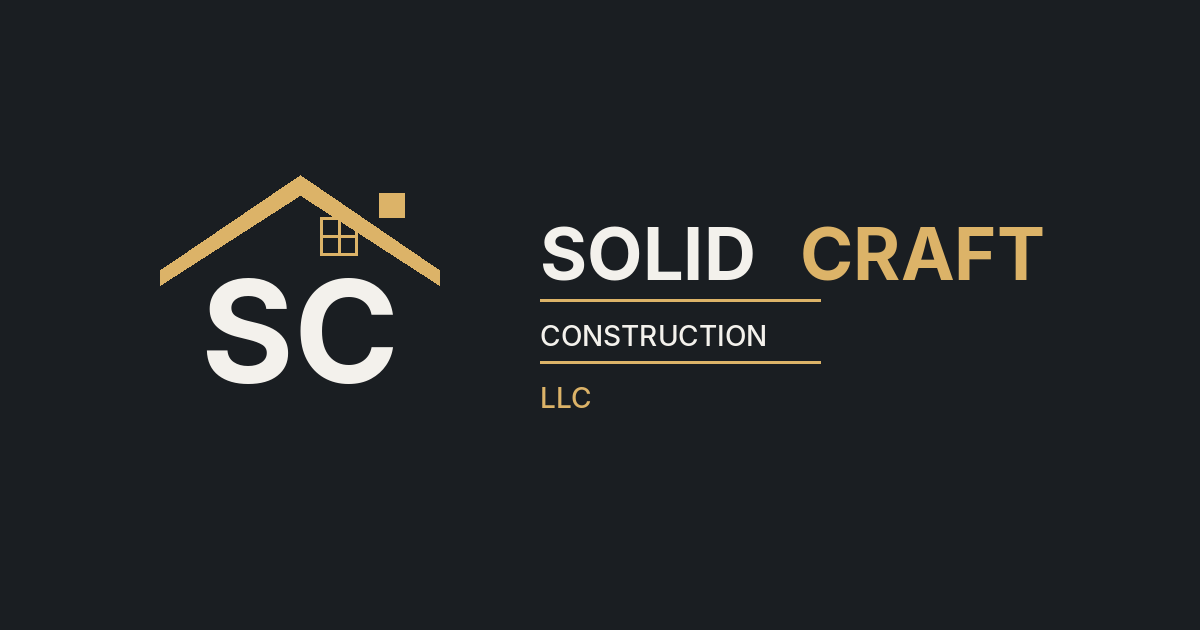
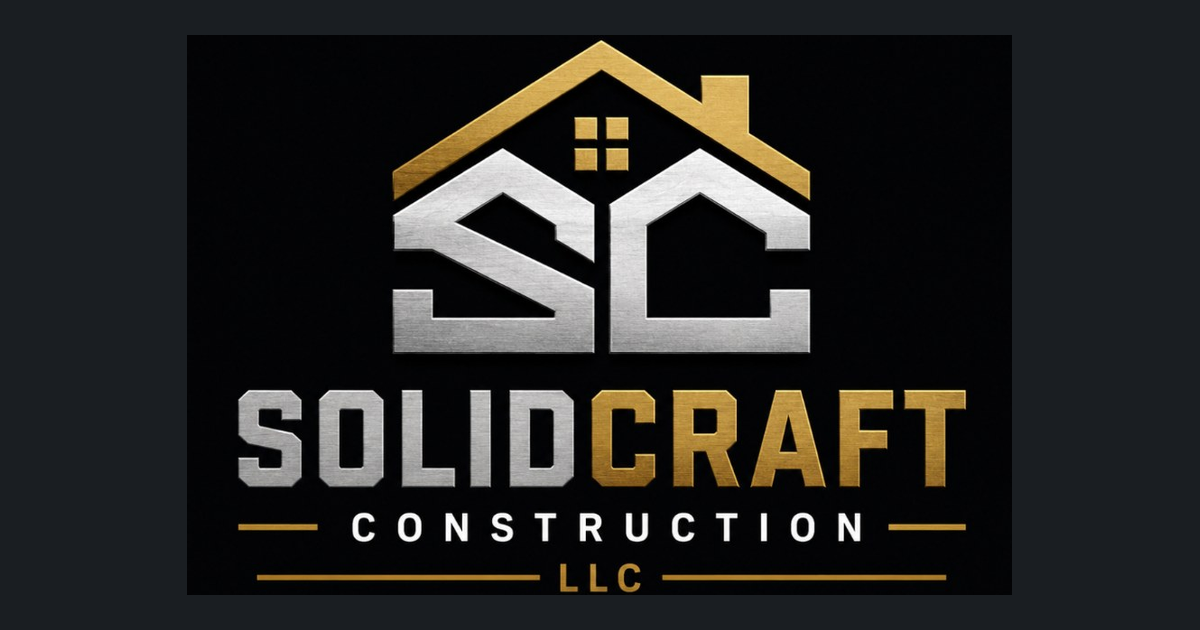
feat: use printed card crop as hero and chrome mark
Voice copy stays locked. Hero is the card lockup only — no job photos.

diff --git a/components/home-view.tsx b/components/home-view.tsx
@@ -1,18 +1,14 @@
-import { BrandMark } from "@/components/brand-mark"
 import { CallPair } from "@/components/call-pair"
+import { CardLockup } from "@/components/card-lockup"
 import { ServiceList } from "@/components/service-list"
-import { Wordmark } from "@/components/wordmark"
 import { site } from "@/lib/site"
 
 export function HomeView() {
   return (
     <div className="bg-ground">
       <section className="border-b border-gold/50">
-        <div className="mx-auto flex max-w-5xl flex-col items-center px-4 py-12 text-center sm:py-16">
-          <BrandMark priority className="h-28 w-auto sm:h-36" />
-          <div className="mt-5">
-            <Wordmark />
-          </div>
+        <div className="mx-auto flex max-w-5xl flex-col items-center px-4 py-10 text-center sm:py-14">
+          <CardLockup priority className="h-auto w-full max-w-md ring-1 ring-gold/60" />
           <h1 className="mt-10 max-w-xl text-4xl text-ink sm:text-5xl md:text-[3.4rem]">
             {site.heroTitle}
           </h1>

diff --git a/components/card-lockup.tsx b/components/card-lockup.tsx
@@ -2,8 +2,8 @@ import Image from "next/image"
 
 import { marks, site } from "@/lib/site"
 
-export function BrandMark({
-  className = "h-14 w-auto",
+export function CardLockup({
+  className = "h-auto w-full max-w-md",
   priority = false,
 }: {
   className?: string
@@ -11,11 +11,11 @@ export function BrandMark({
 }) {
   return (
     <Image
-      src={marks.logoMark}
+      src={marks.cardLockup}
       alt={site.legalName}
-      width={834}
-      height={340}
-      className={`object-contain ${className}`}
+      width={914}
+      height={620}
+      className={`bg-card object-contain ${className}`}
       unoptimized
       priority={priority}
     />

diff --git a/lib/site.ts b/lib/site.ts
@@ -58,5 +58,6 @@ export const services = [
 export const marks = {
   logoMark: "/logo-mark.png",
   logoTile: "/logo-tile.png",
+  cardLockup: "/card-lockup.jpg",
   og: "/og.png",
 } as const

diff --git a/scripts/make-mark.py b/scripts/make-mark.py
@@ -1,8 +1,8 @@
 #!/usr/bin/env python3
-"""Rasterize the Solid Craft house mark for chrome and favicons.
+"""Last-resort reconstruction of the house mark.
 
-The mark matches the printed card: white block SC as the house body,
-gold roofline, four-pane window in the peak, chimney on the right slope.
+Prefer the printed-card crops in public/ (card-lockup.jpg, logo-mark.png).
+Do not run this if those files already exist — it overwrites them.
 """
 
 from __future__ import annotations

diff --git a/README.md b/README.md
@@ -56,5 +56,6 @@ No street. No town. No CCB. No hours. No star scores. No job photos we do not ha
 Ground `#1A1E22`. Card `#212426`. Ink `#F3F1EC`. Gold `#DCB368`. Mute `#7C8387`.
 Big Shoulders Display + Libre Franklin.
 
-- `public/logo-mark.png` — card house mark (SC, gold roof, window, chimney)
-- `public/logo-tile.png` — same mark on charcoal, for tiles
+- `public/card-lockup.jpg` — printed-card crop (mark + SOLID CRAFT CONSTRUCTION LLC)
+- `public/logo-mark.png` — SC + house crop from that card, for chrome
+- `public/logo-tile.png` — same mark on a charcoal tile
